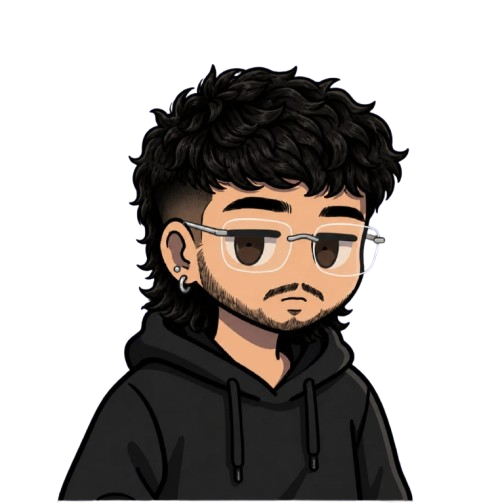
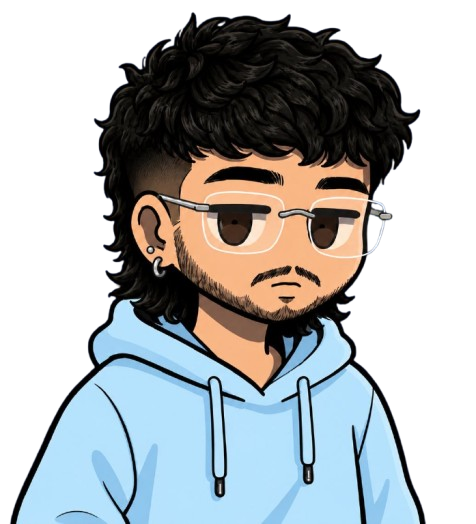
ajeitando cores

diff --git a/README.md b/README.md
@@ -21,7 +21,7 @@
 <h2 align="center"> <img src="image/icon-icons.svg" width="20"/> <i>About Me</i> </h2>
 
 <p align="center">
-  <img src="image/imageAvatar.png" width="160" align="left" style="margin-right: 30px; margin-left: 20px;">
+  <img src="image/imageAvatar.png" width="270" align="left" style="margin-right: 30px; margin-left: 20px;">
   Hello! My name is <b>Alejandro Noguera</b>, and I am a Software Engineering student. I am passionate about learning new technologies, developing innovative projects, and solving complex problems through programming. Currently, I am honing my skills in <b>JavaScript, React.js, Java, Spring Boot, and SQL</b>, focusing on building robust applications and continuously growing within the tech industry.
 </p>
 
